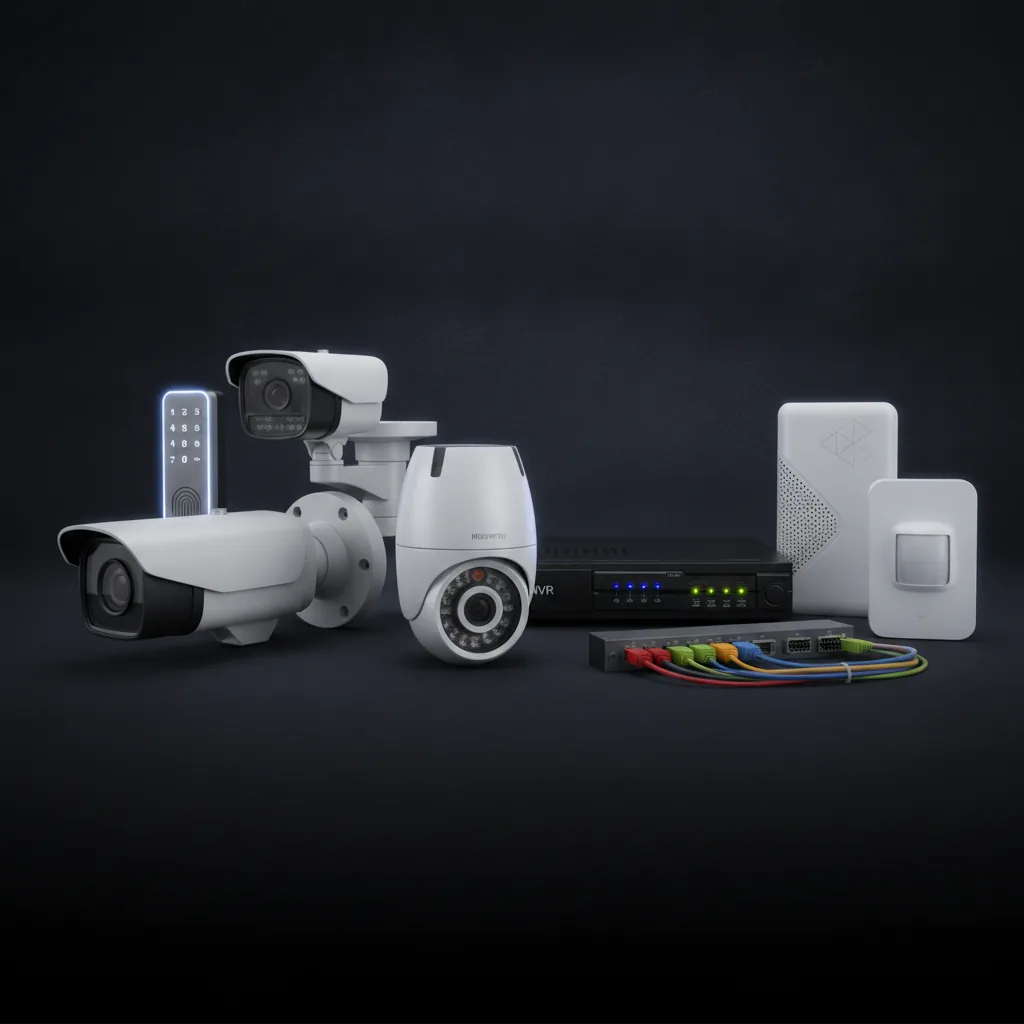
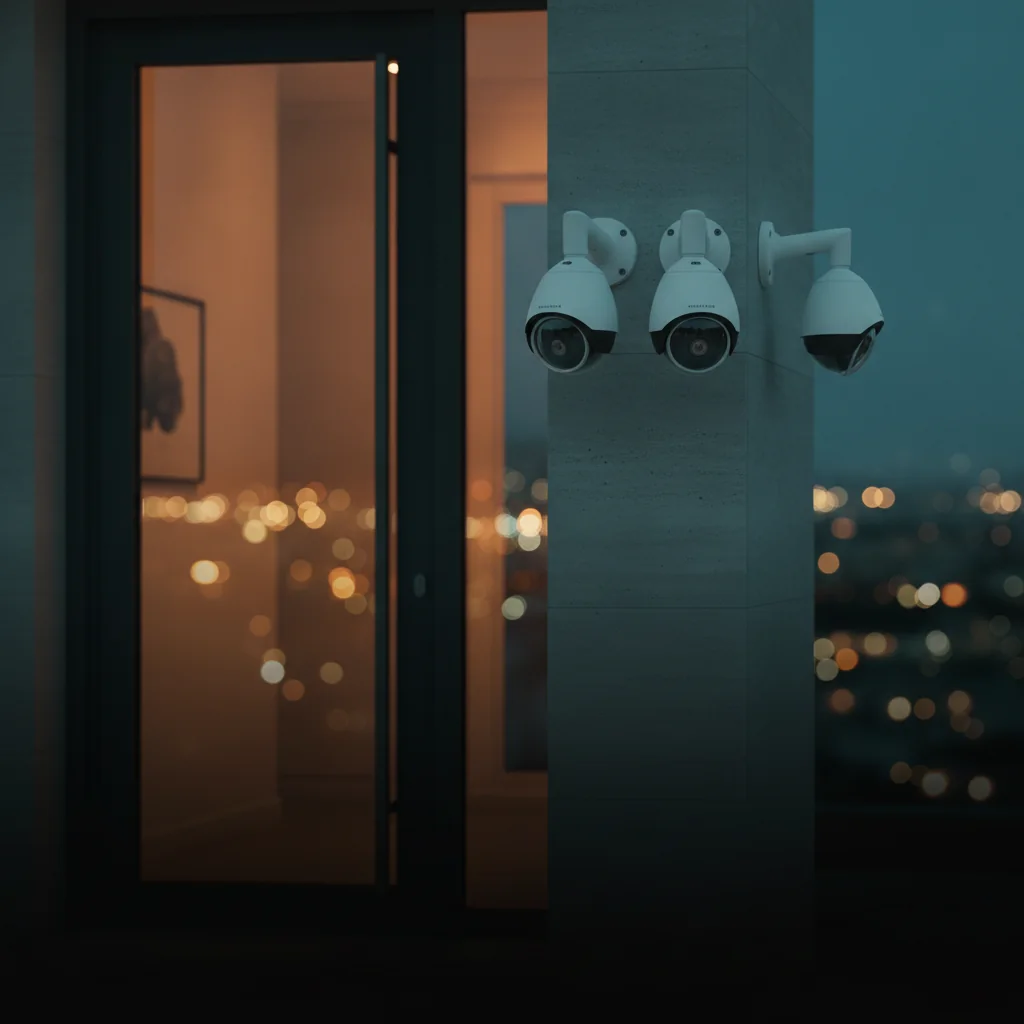
Replace mobile hero with cinematic twilight home security photograph.

diff --git a/index.html b/index.html
@@ -49,7 +49,7 @@
         <picture>
           <source media="(max-width: 900px)" srcset="./assets/hero-mobile-mob.webp" type="image/webp" />
           <source srcset="./assets/hero-mobile.webp" type="image/webp" />
-          <img class="hero__mobile-photo" src="./assets/hero-mobile.png" alt="מערכת מיגון, אבטחה ותקשורת — מצלמות, מקליט, ראוטר ובקרת כניסה במקום אחד" width="1024" height="1024" loading="eager" fetchpriority="high" decoding="async" />
+          <img class="hero__mobile-photo" src="./assets/hero-mobile.png" alt="מערכת אבטחה מקצועית לבית מודרני בשעת בין-ערביים" width="1024" height="1024" loading="eager" fetchpriority="high" decoding="async" />
         </picture>
         <div class="hero__mobile-shade" aria-hidden="true"></div>
       </div>

diff --git a/styles.css b/styles.css
@@ -651,7 +651,7 @@ html.lite .float__inner { animation: none !important; }
     width: 100%;
     height: 100%;
     object-fit: cover;
-    object-position: center 28%;
+    object-position: 68% 38%;
   }
   .hero__mobile-shade {
     position: absolute;